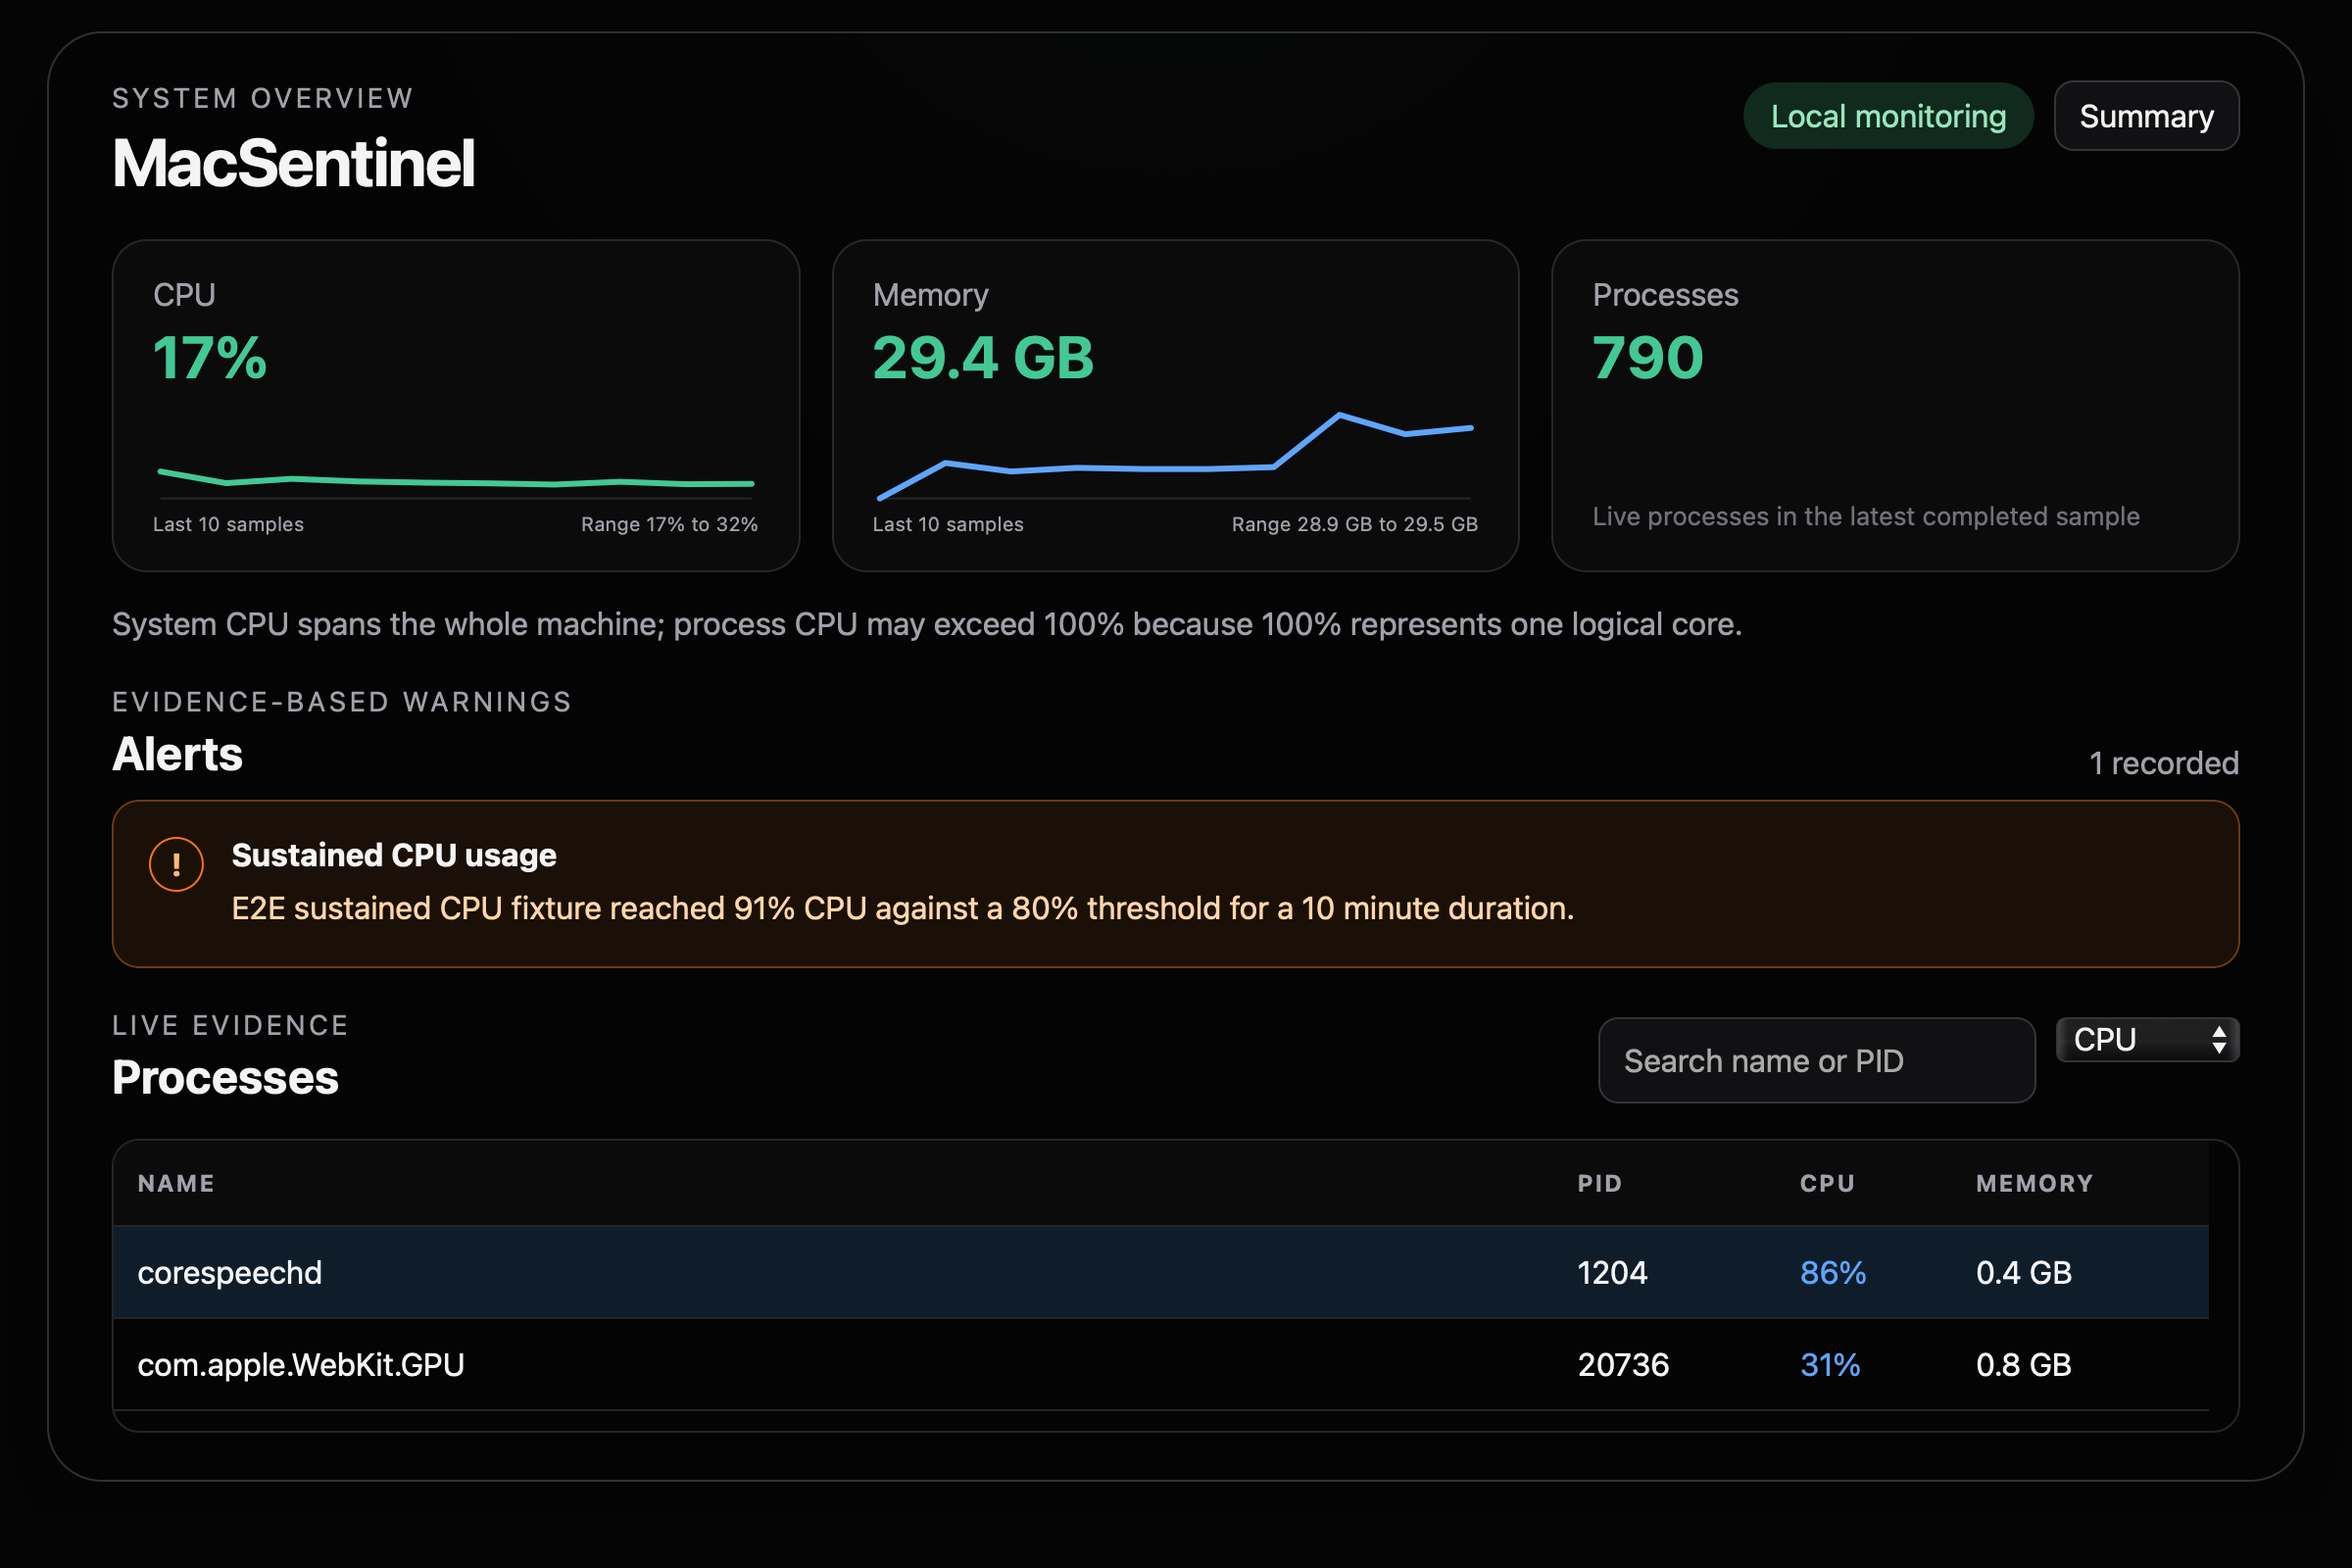
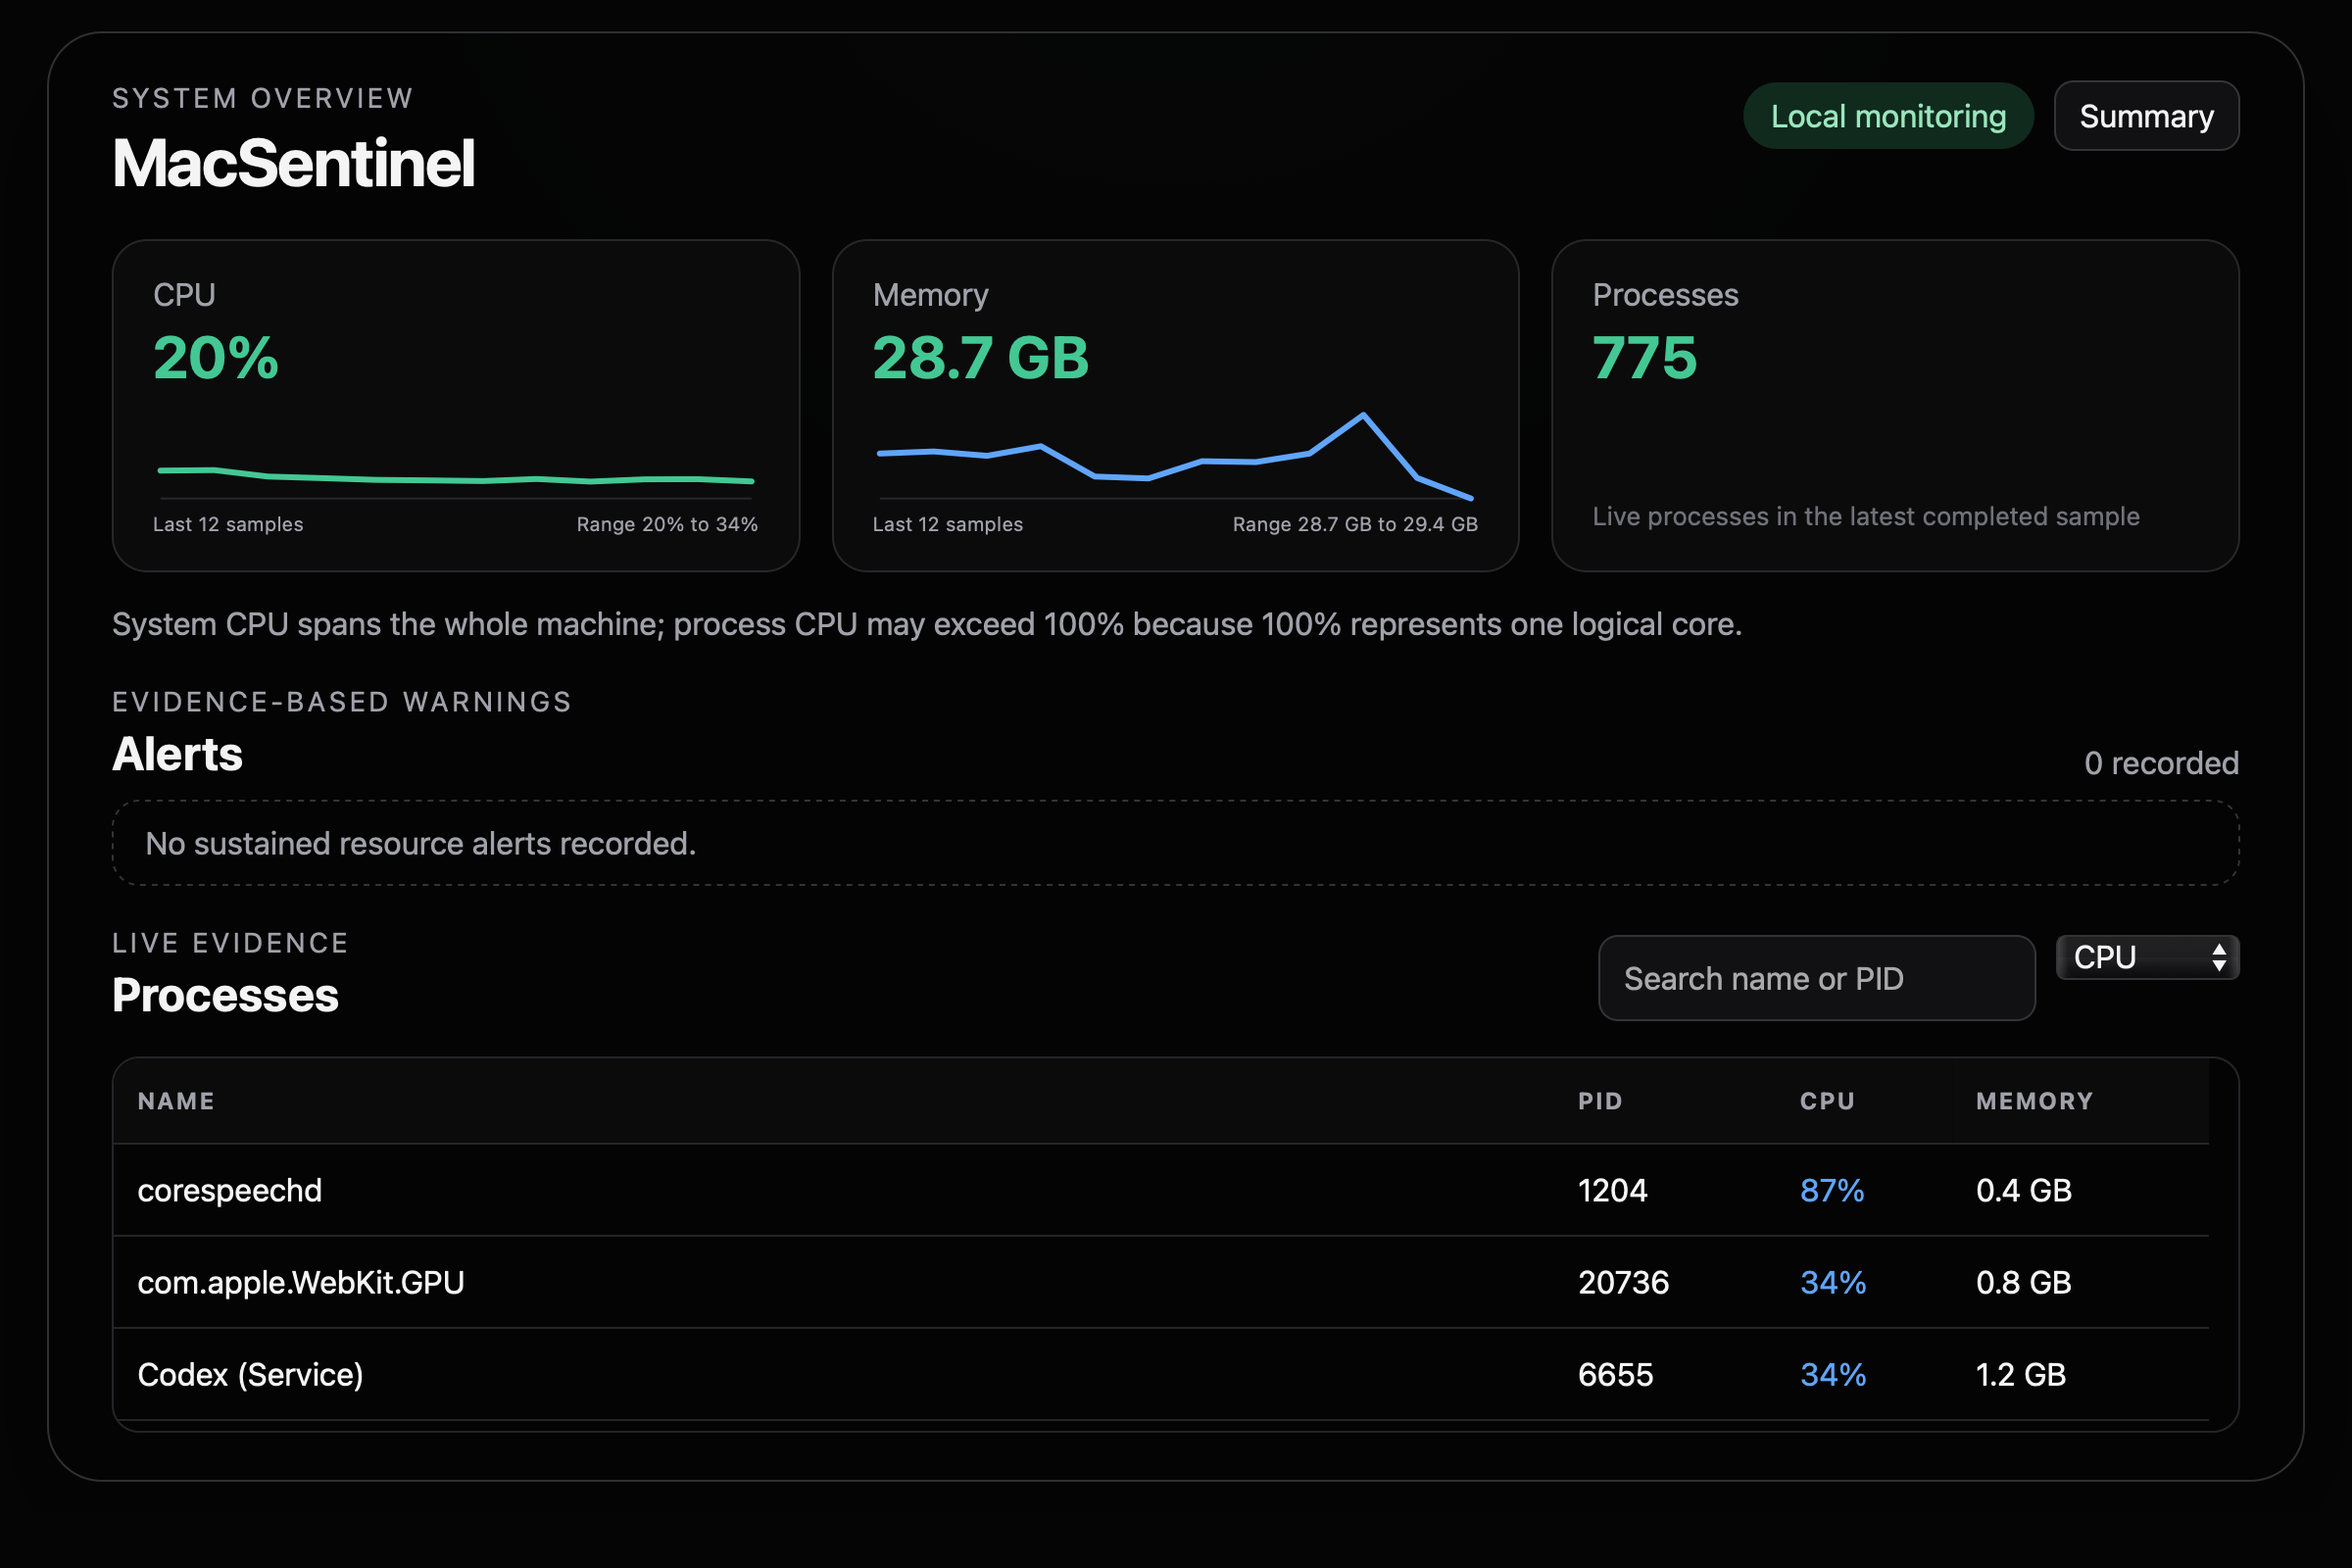
MCS-001 Task 4

diff --git a/README.md b/README.md
@@ -2,6 +2,8 @@
 
 MacSentinel is a privacy-first macOS process monitor. It is designed to explain current CPU and memory pressure, preserve useful local evidence, and surface sustained resource anomalies without sending monitoring data off the Mac.
 
+![MacSentinel dashboard showing CPU and memory trends, alerts, and the live process list](docs/images/macsentinel-dashboard.png)
+
 The project is currently being built incrementally from the specifications in `docs/CRs/MCS-001`. The bootstrap is intentionally behavior-free; live monitoring is introduced only after the native and frontend boundaries compile and their tests are in place.
 
 ## Supported environment
